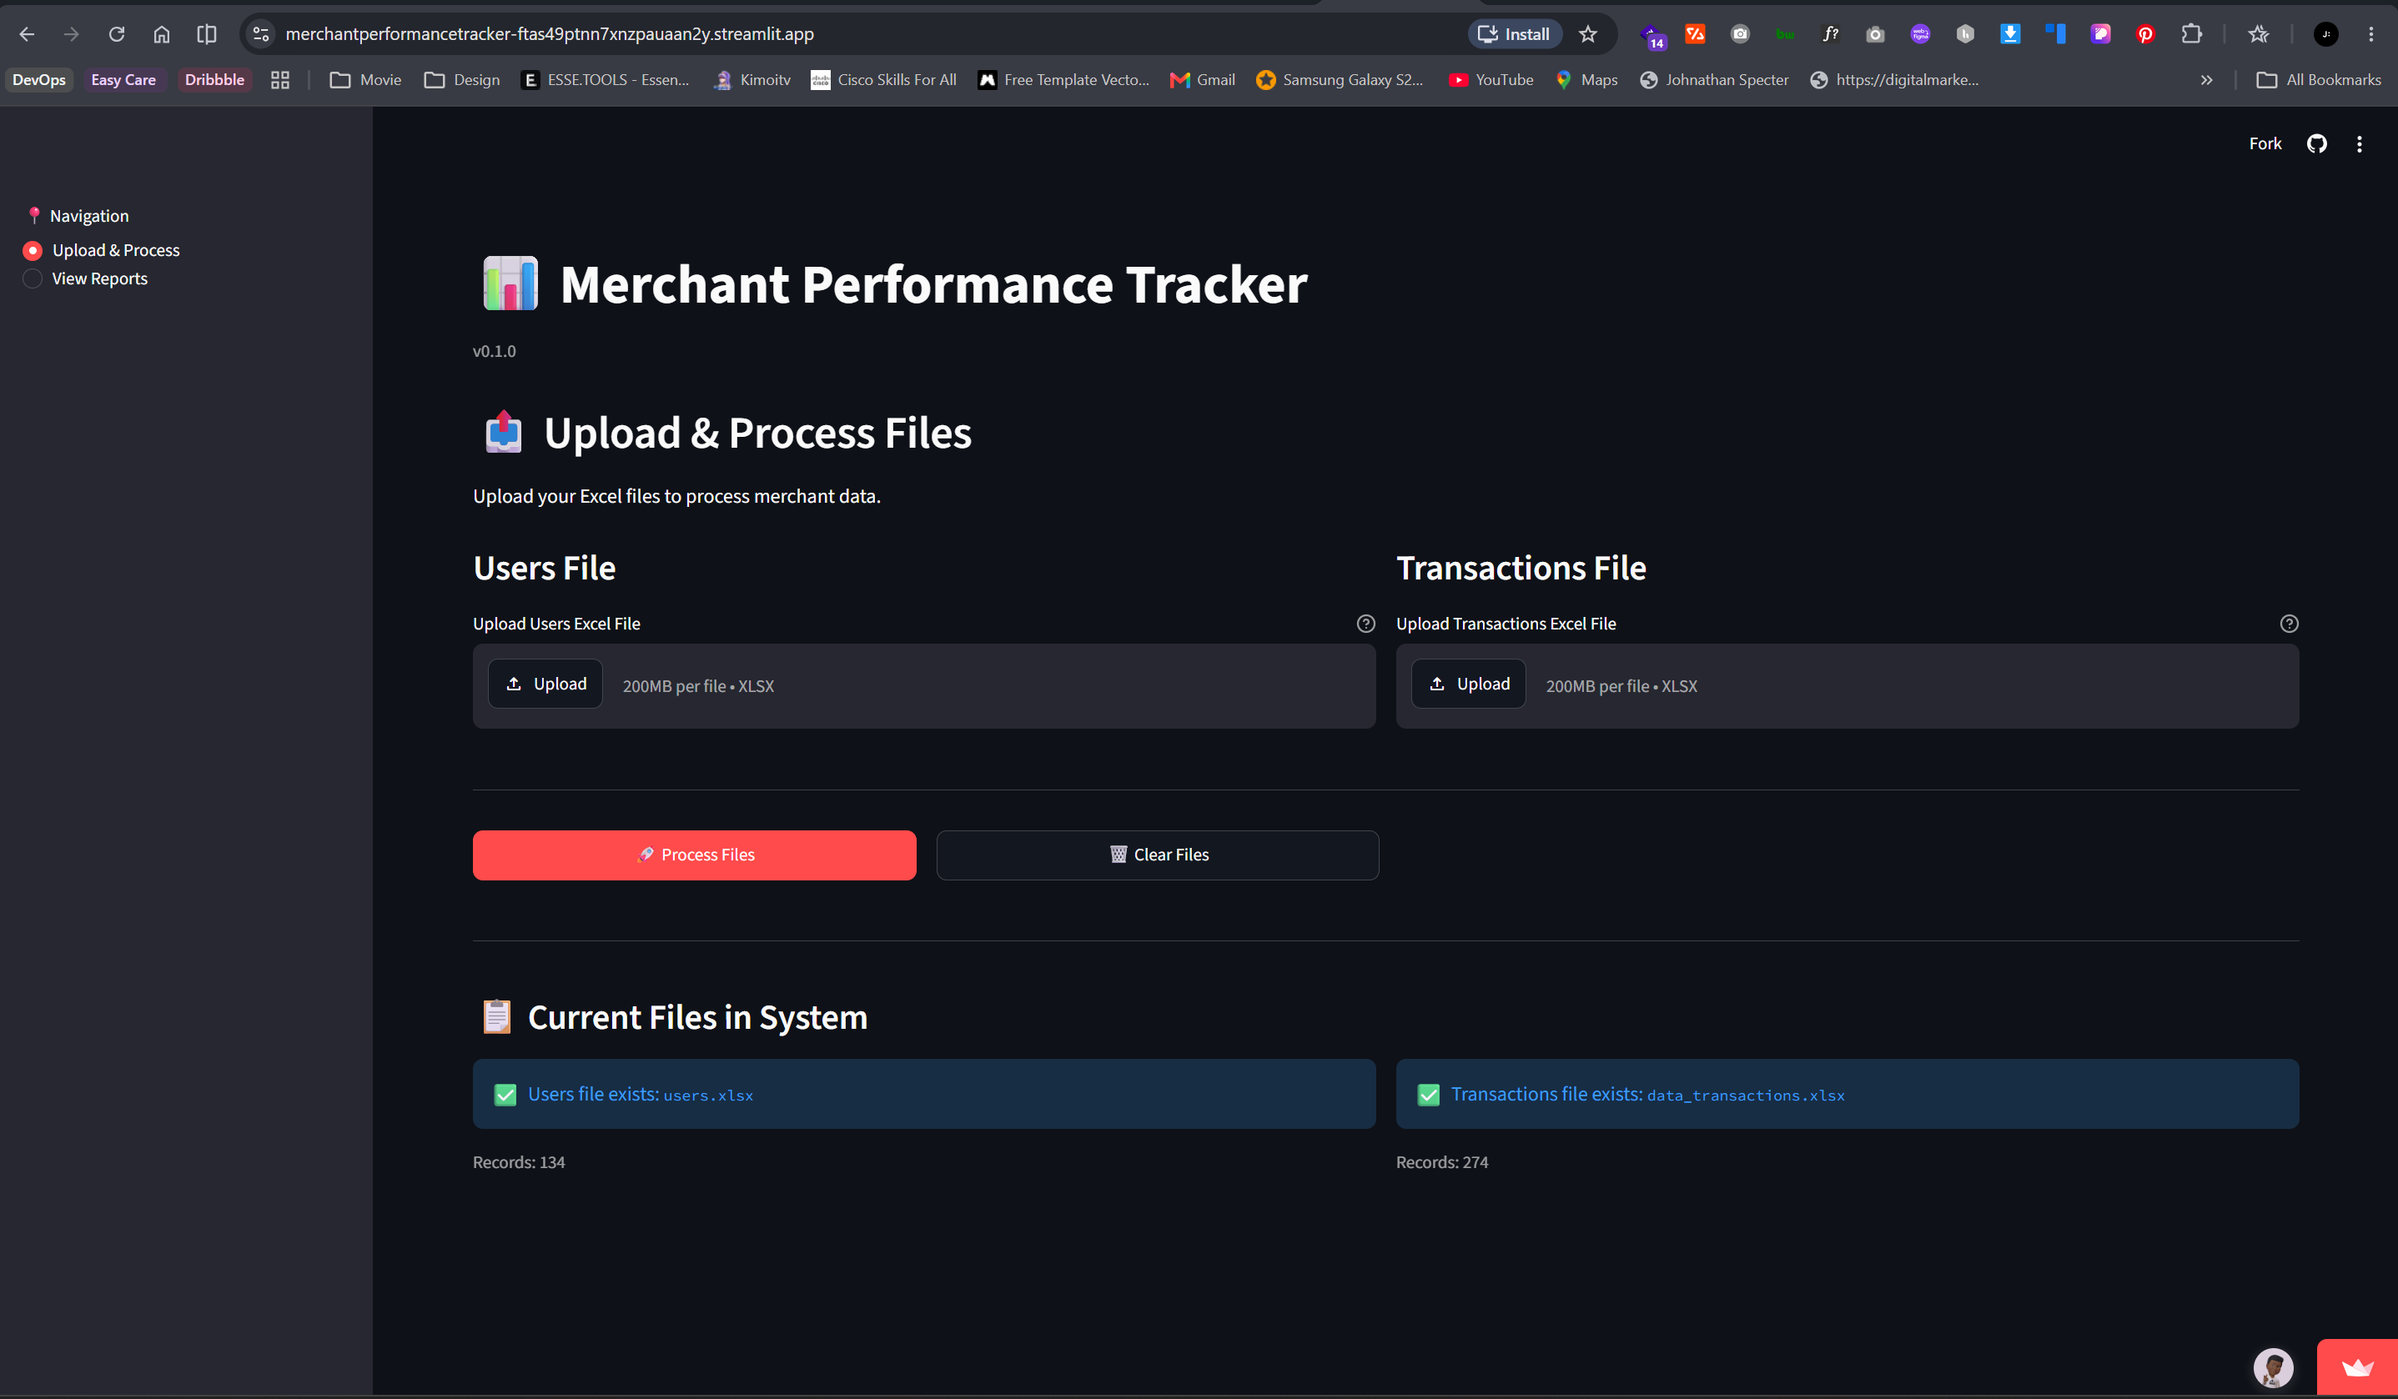
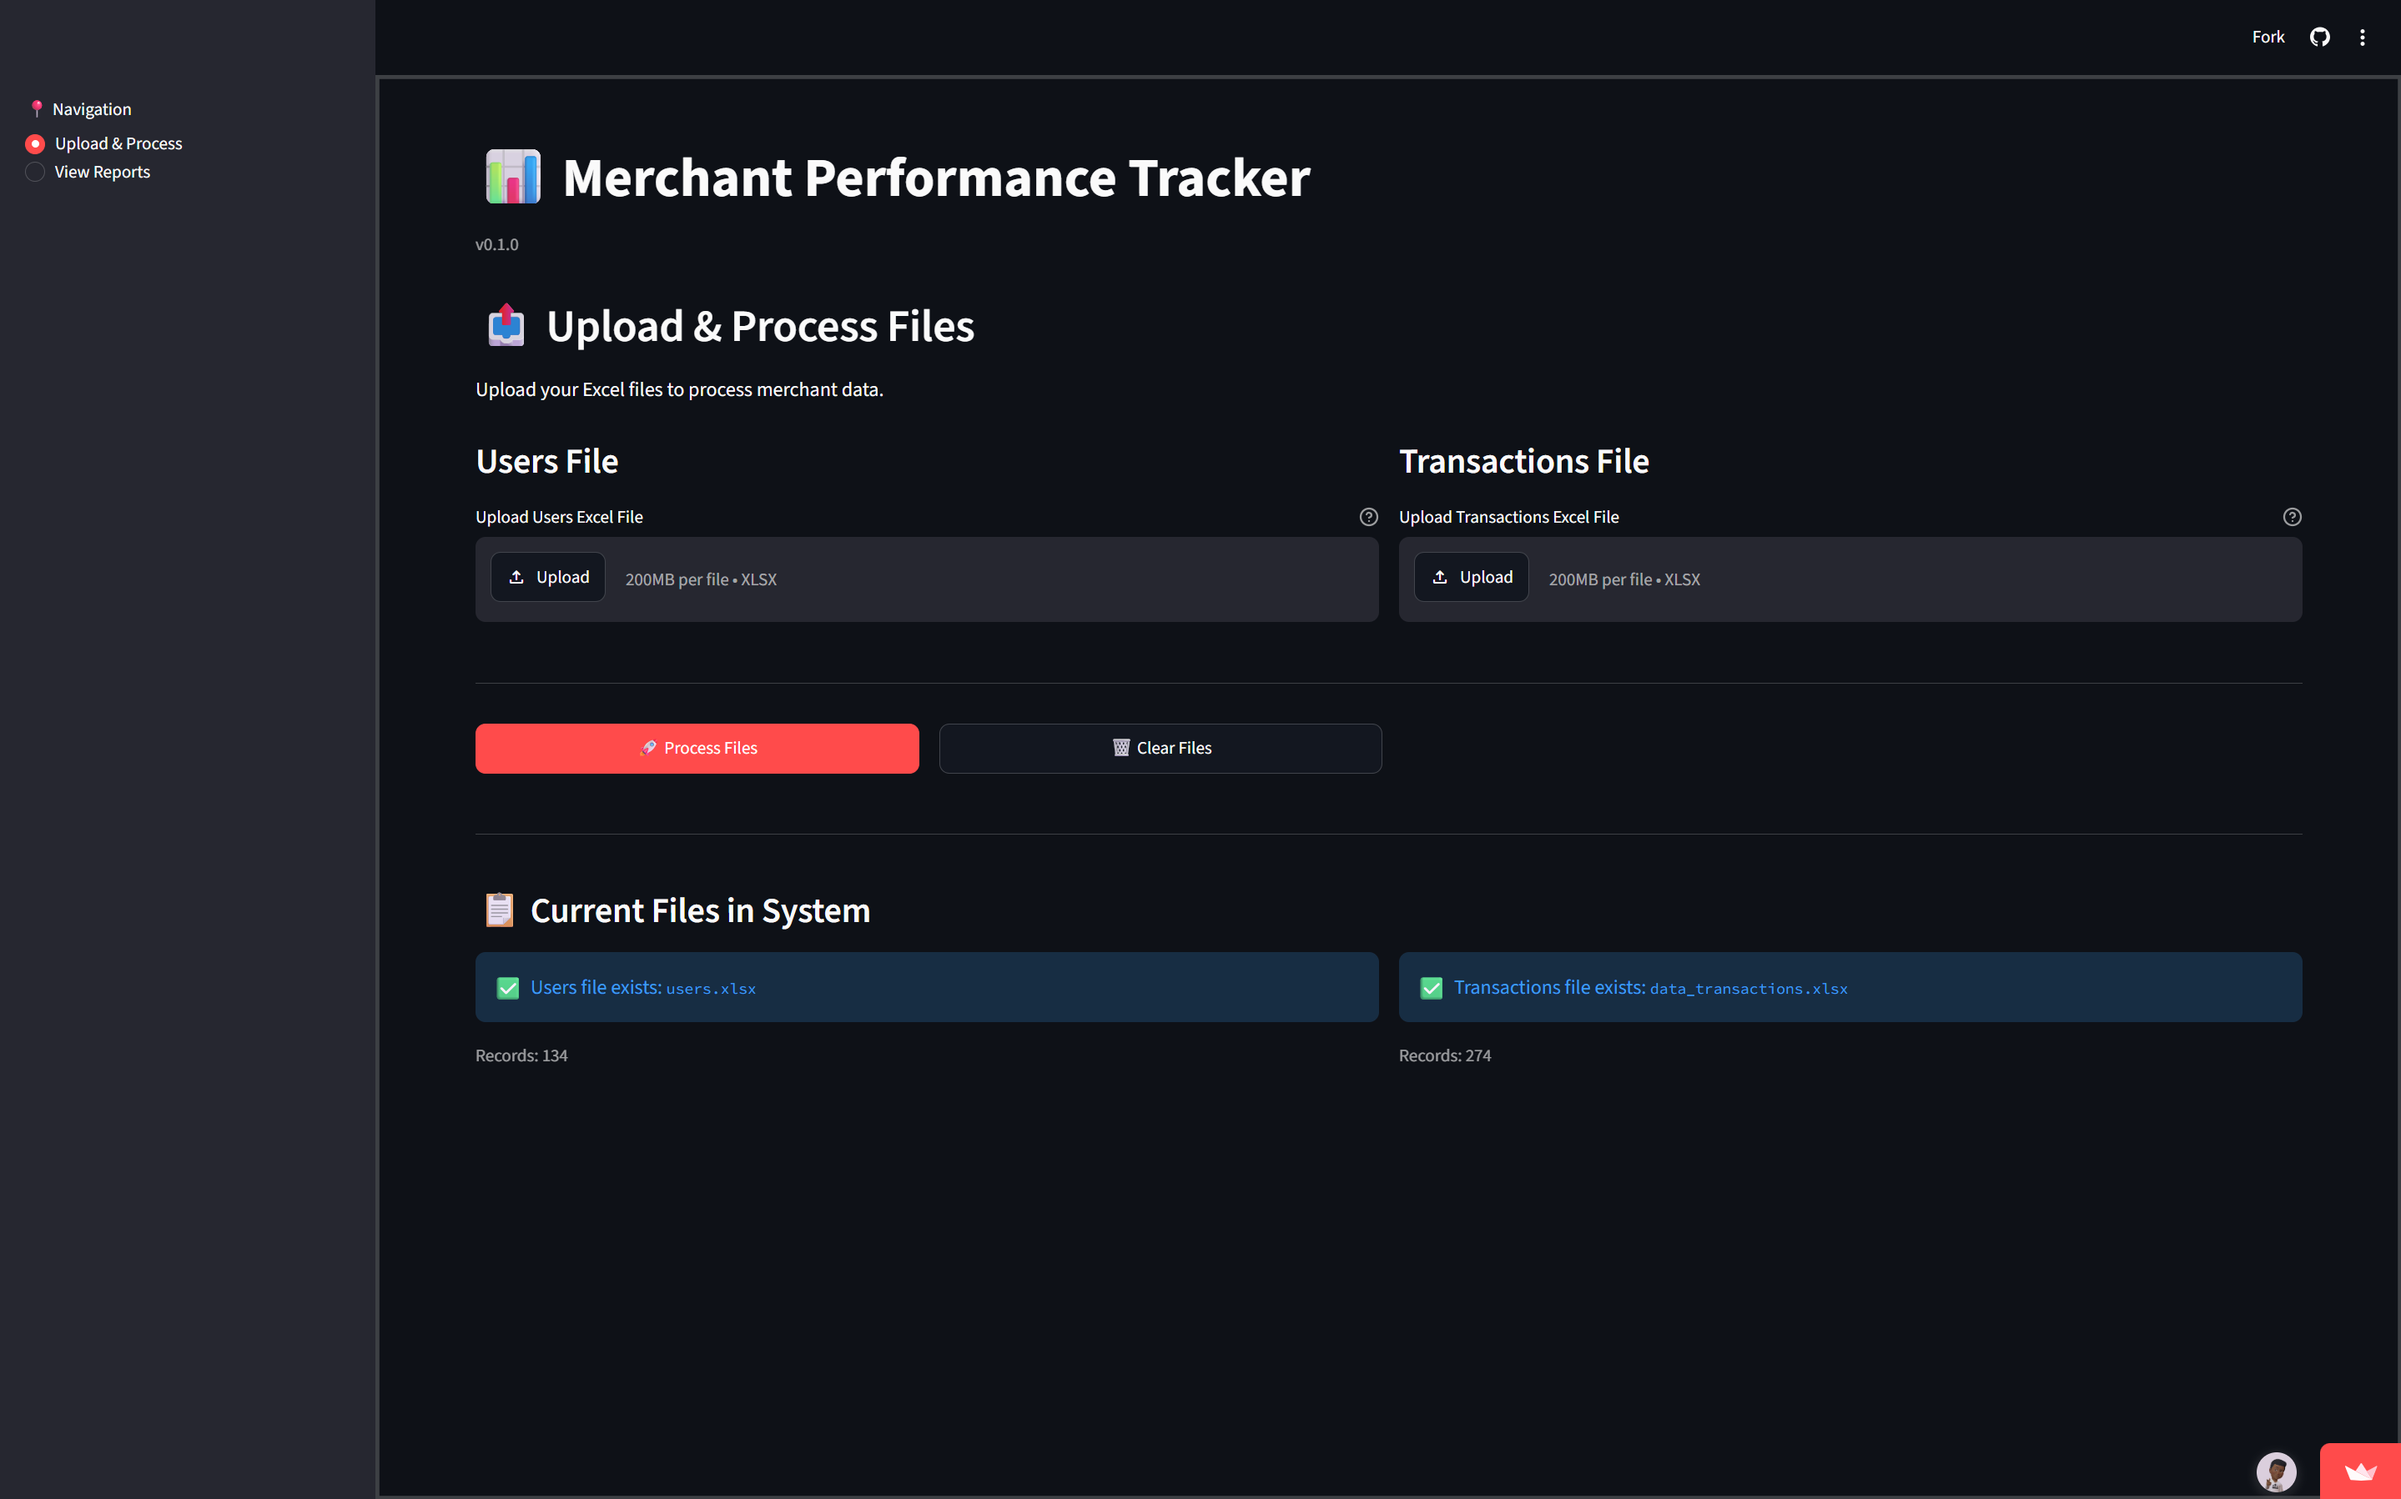
Clarify VTU platform case study details

diff --git a/README.md b/README.md
@@ -13,7 +13,7 @@ A case study and runbook from my time administering the production web server fo
 | **Role** | Tech Support & IT Project Coordinator |
 | **Period** | 2021 – Present |
 | **Platform** | Ocayweb, a cloud-based VTU vending platform |
-| **Users** | [e.g. Over 500 Merchant in the first 12 months of launch] |
+| **Users** | 500+ merchants in the first 12 months. |
 | **Integrations** | MTN, Airtel and Glo partner APIs |
 | **My responsibility** | Day-to-day server operation, uptime, merchant monitoring, and first-line escalation |
 
@@ -35,8 +35,8 @@ A case study and runbook from my time administering the production web server fo
               (MTN · Airtel · Glo)
 ```
 
-- **OS:** Windows
-- **Web server:** Apache, LiteSpeed
+- **OS:** Linux (Namecheap shared hosting, cPanel)
+- **Web server:** Apache-compatible (cPanel)
 - **Database:** MySQL
 - **Hosting:** Namecheap
 - **Monitoring:** Uptimerobot, Custom Scripts
@@ -99,7 +99,7 @@ When something breaks, this is the order I work through:
 
 ## Results
 
-- Disbursed over **5TB** worth of data in less than 24 hours.
+- Peak day: over 5TB of data bundles vended across the network in 24 hours.
 - Resolved over 80% of merchants tickets, within 24 hours of being raised.
 - Reduced repeat incident by properly logging issues & solutions workflow.
 
